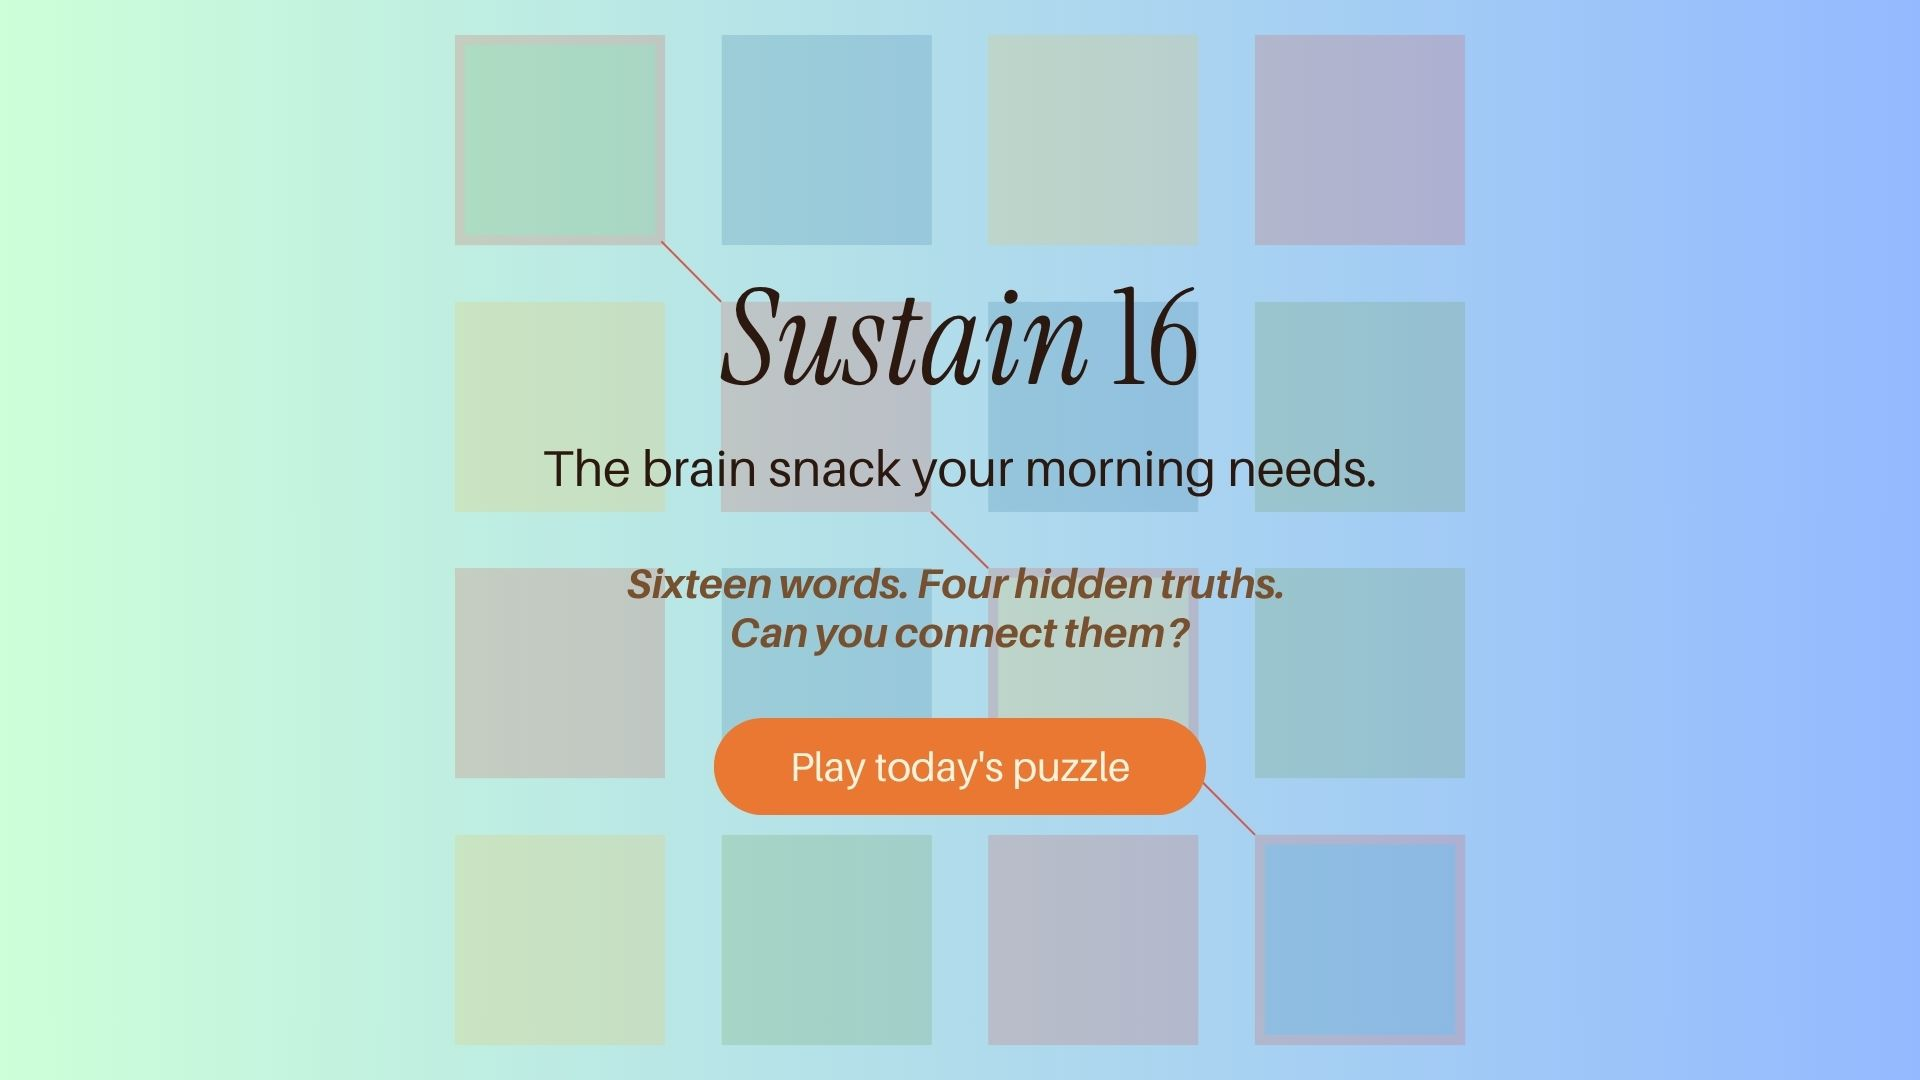
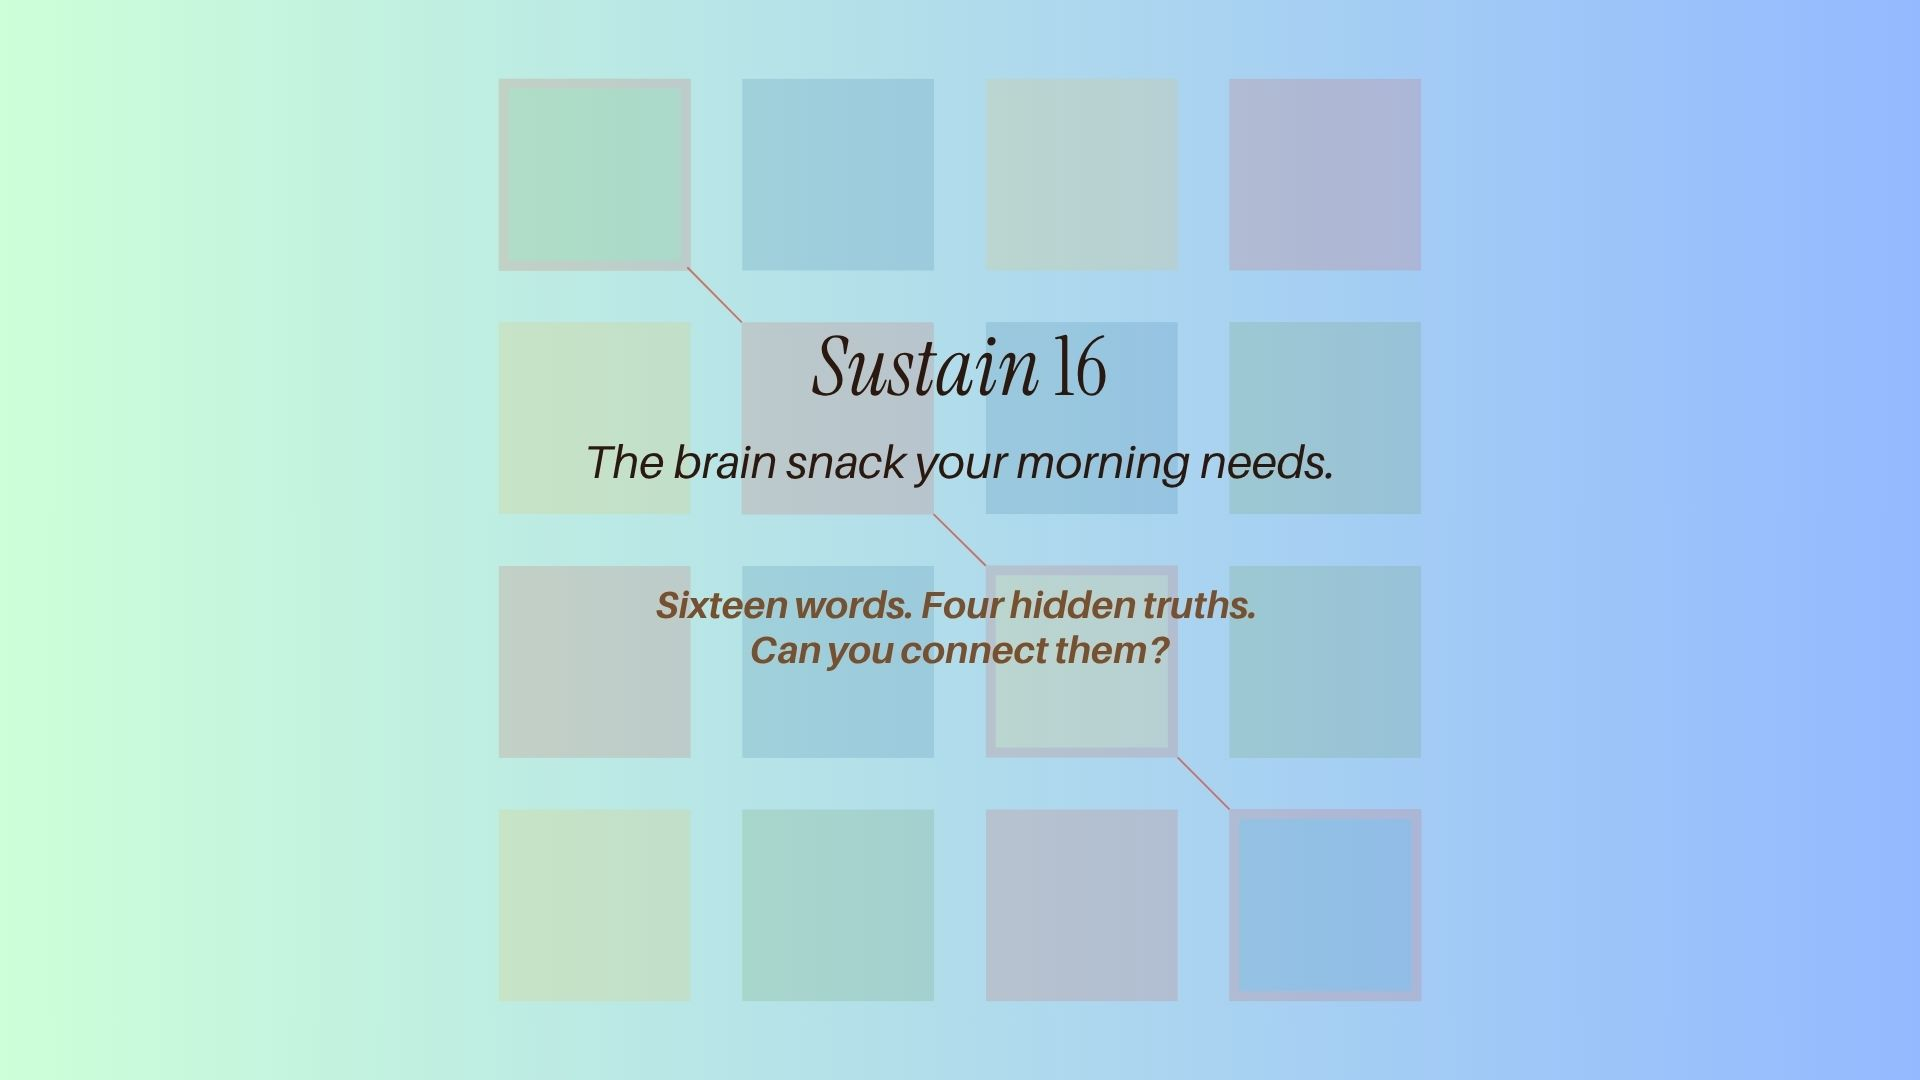
update screen 1 new image and animated button

Changed region(s): [[0.2188, 0.5194, 0.7812, 0.9778], [0.2188, 0.0306, 0.7812, 0.4889]]

diff --git a/style.css b/style.css
@@ -55,15 +55,22 @@ body {
   display: block;
 }
 
-#play-btn-overlay {
+.play-btn {
   position: absolute;
-  top: 65%;
-  left: 35%;
-  width: 30%;
-  height: 12%;
-  cursor: pointer;
-  background: transparent;
+  top: 72%;
+  left: 50%;
+  transform: translateX(-50%);
+  background: #ea7832;
+  color: #fff;
+  font-family: 'Aileron', system-ui, sans-serif;
+  font-weight: 700;
+  font-size: 20px;
+  border: none;
   border-radius: 50px;
+  padding: 16px 48px;
+  cursor: pointer;
+  white-space: nowrap;
+  animation: pulse-float 2s ease-in-out infinite;
 }
 
 /* ── Screen 2: Mode Select ───────────────────────────── */

diff --git a/index.html b/index.html
@@ -15,7 +15,7 @@
     <!-- Screen 1: Intro -->
     <div id="screen-intro" class="screen active">
       <img src="images/hero.jpg" alt="Sustain 16" class="hero-img">
-      <div id="play-btn-overlay"></div>
+      <button id="play-btn" class="play-btn">Play today's puzzle</button>
     </div>
 
     <!-- Screen 2: Mode Select -->

diff --git a/script.js b/script.js
@@ -425,7 +425,7 @@ function initPuzzle() {
 }
 
 // ── Event listeners ───────────────────────────────────────────────────────────
-document.getElementById('play-btn-overlay').addEventListener('click', function () {
+document.getElementById('play-btn').addEventListener('click', function () {
   showScreen('screen-mode');
 });
 